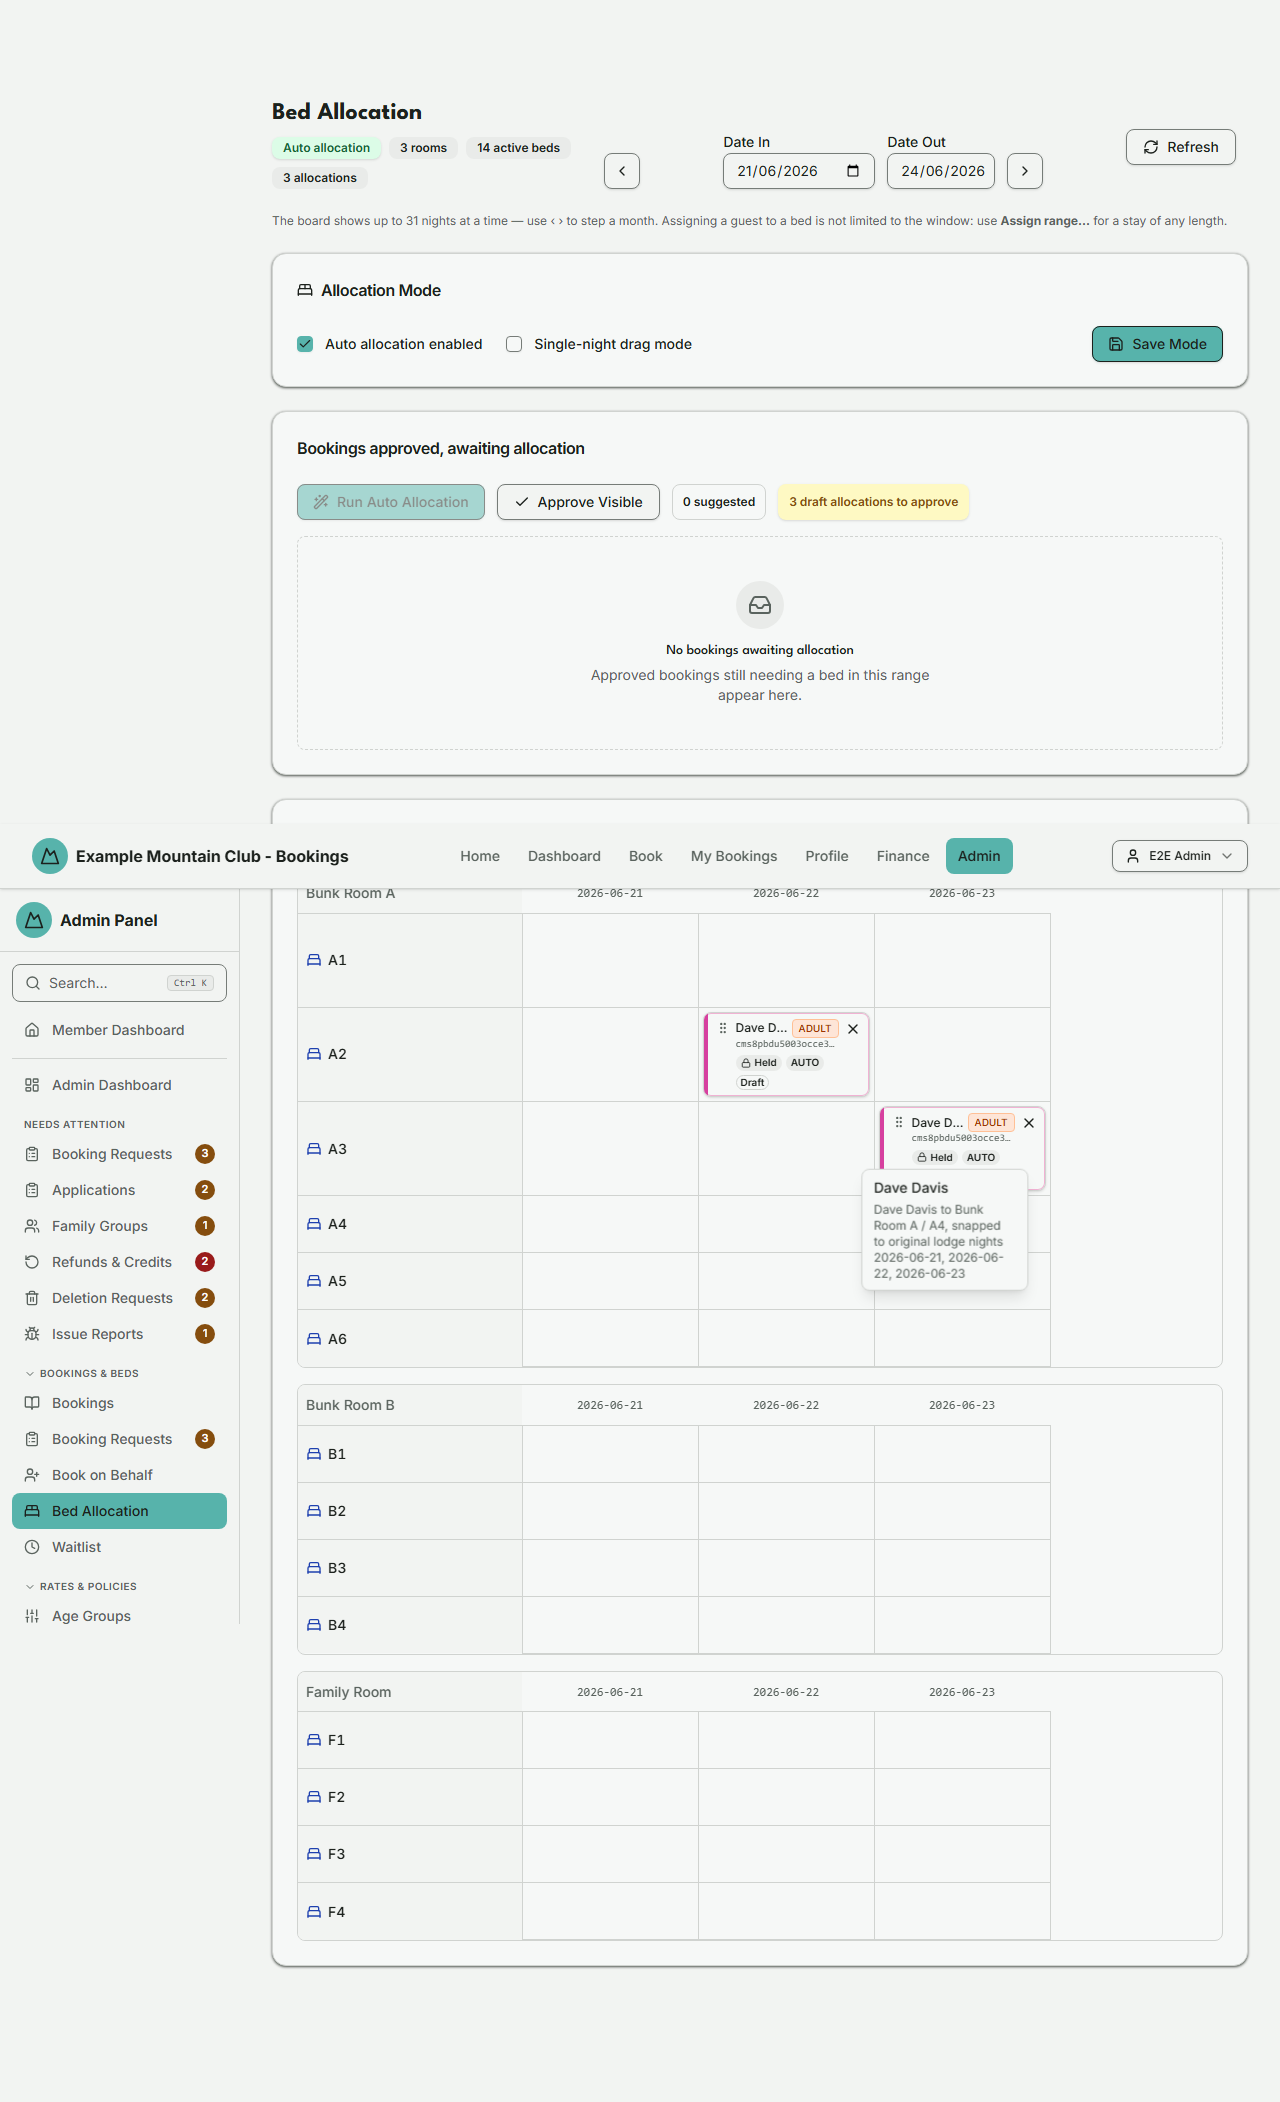
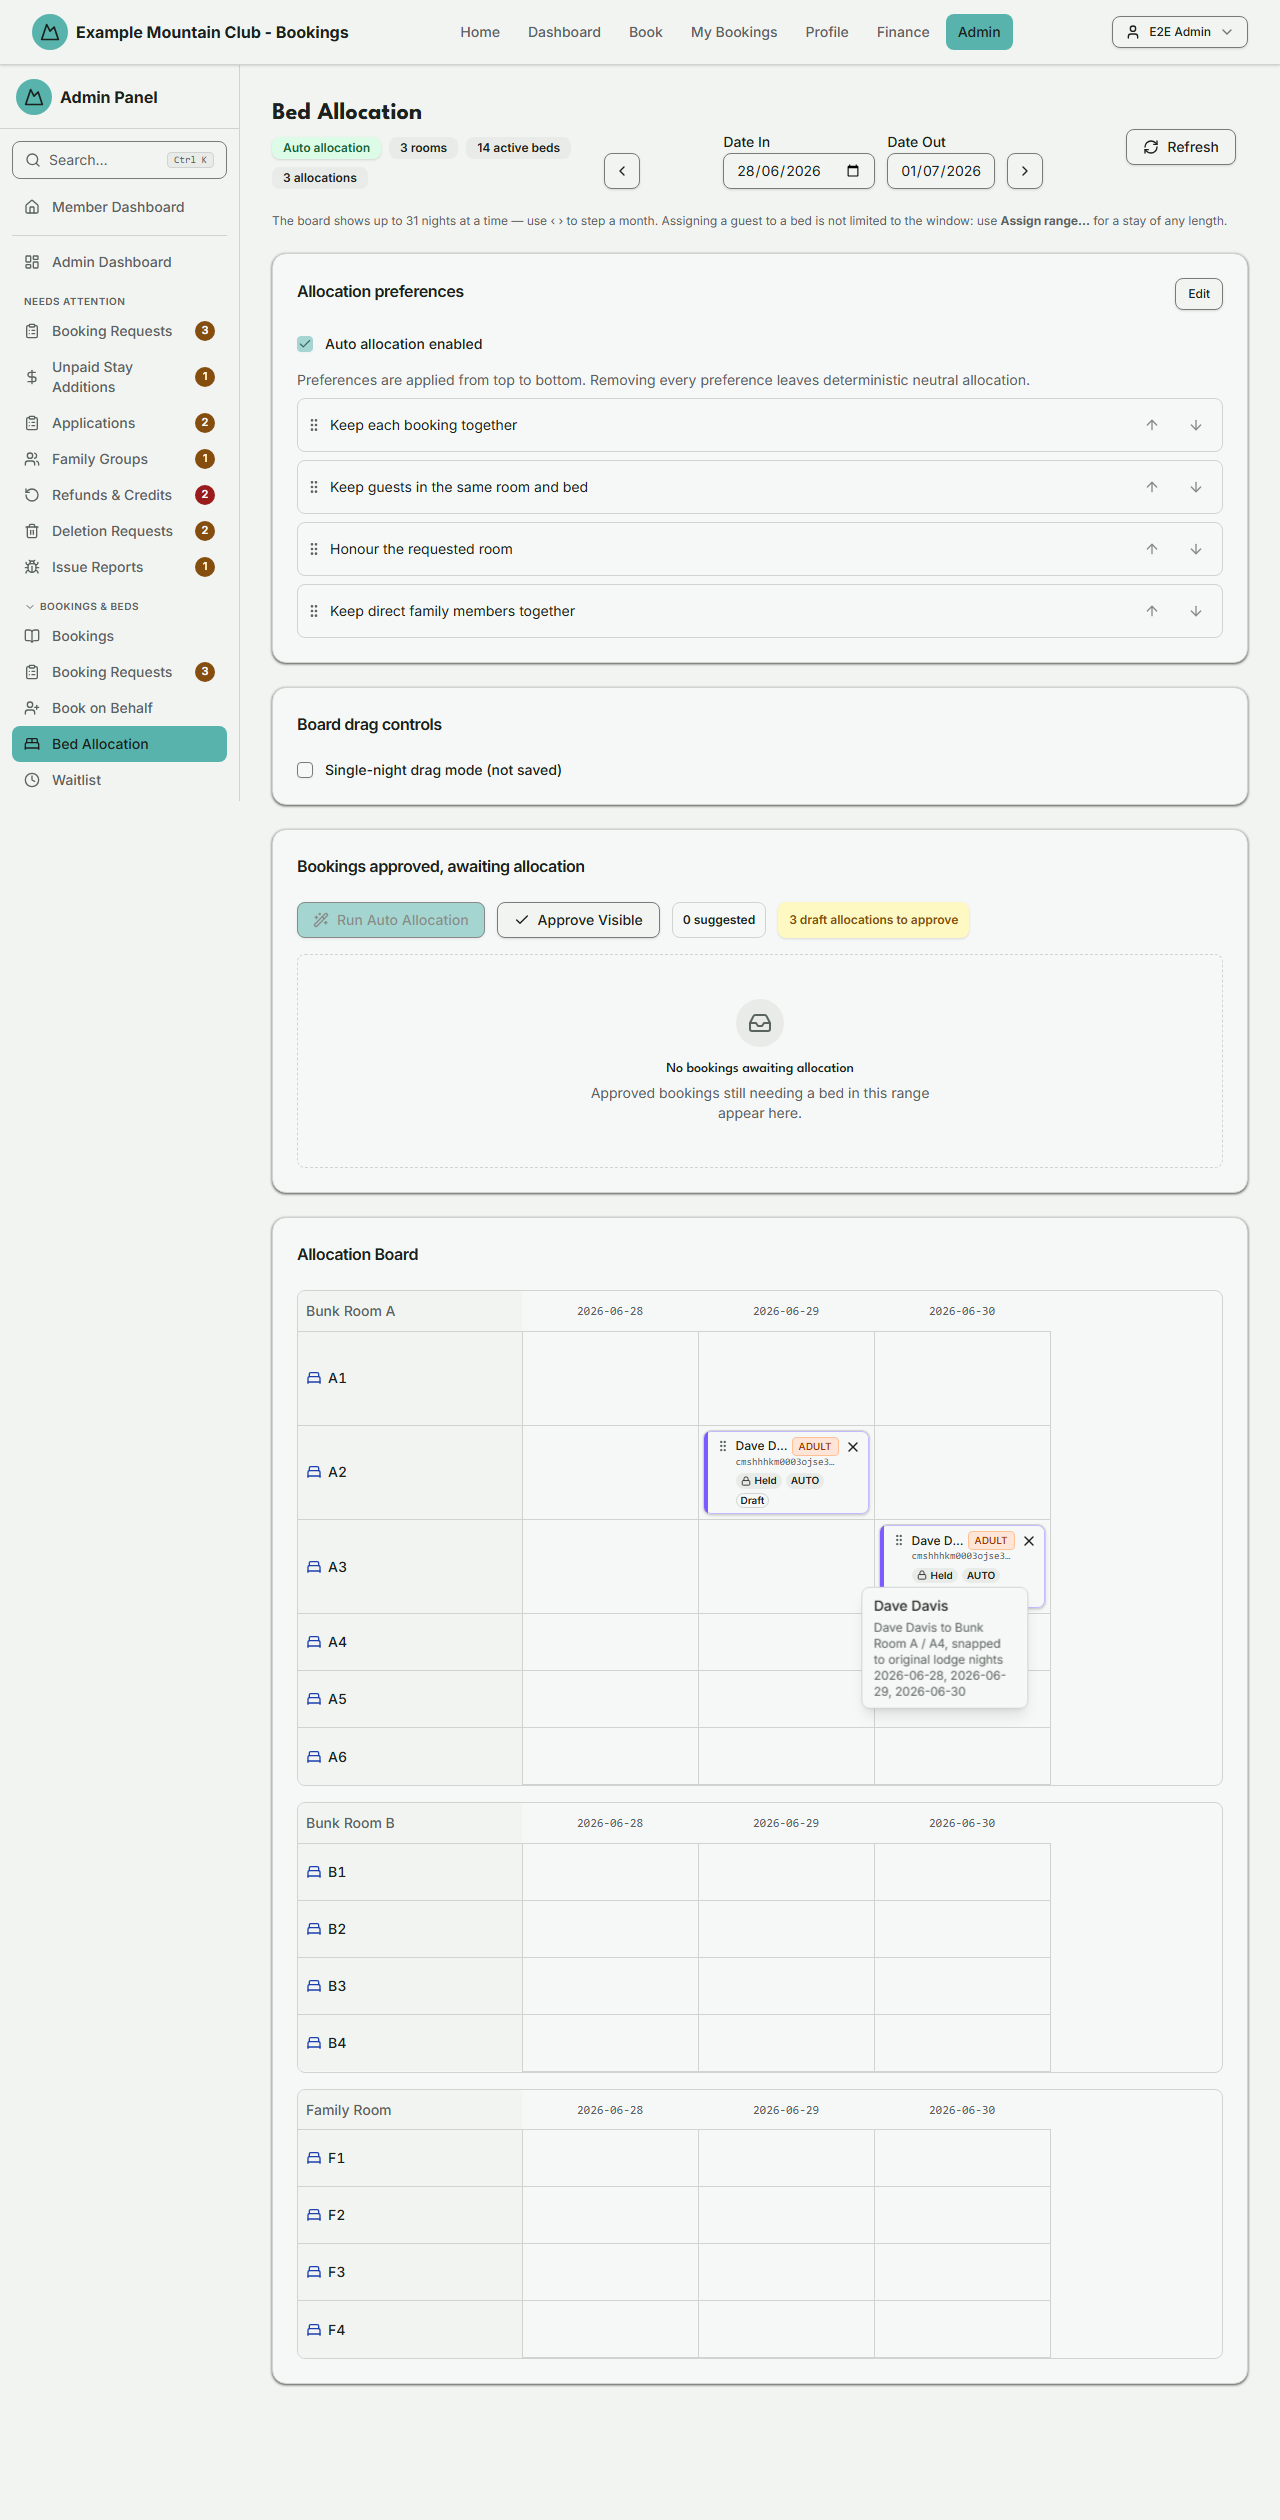
docs: refresh allocation board captures

diff --git a/e2e/tools/capture-screenshots.ts b/e2e/tools/capture-screenshots.ts
@@ -335,6 +335,13 @@ async function prepareBedAllocationSnapPreview(page: Page): Promise<void> {
   if (!targetNight) {
     throw new Error("Dave's seeded booking has no lodge nights");
   }
+  // This capture deliberately scrolls before taking a full-page screenshot.
+  // Keep the app chrome in normal document flow so Chromium does not paint the
+  // sticky header/sidebar at that mid-page scroll offset in the final image.
+  await page.addStyleTag({
+    content:
+      'header.sticky, aside[class*="md:sticky"] { position: static !important; }',
+  });
   const dragHandle = page
     .getByRole("button", {
       name: /Drag Dave Davis to another bed; original lodge night .* will be kept/,
